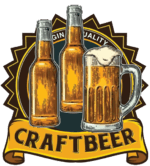
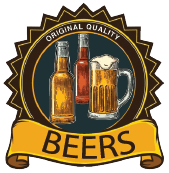
new pins caps

diff --git a/index.html b/index.html
@@ -236,12 +236,12 @@
               <button id='brewsMode' type="button" class="btn btn-secondary btn-opacity" onclick="handleRequests('showBrews')" lng-key="brewsBtn">:</button> -->
 
               <button id='beersMode' class="btn btn-secondary mode-checked btn-opacity px-2 py-0" onclick="handleRequests('showBeers')">
-                   <img src="images/beers.png" width="80" />
+                   <img src="images/introPin2.png" width="80" />
 
               </button>
 
               <button id='brewsMode' class="btn btn-secondary btn-opacity px-2 py-0" onclick="handleRequests('showBrews')">
-                   <img src="images/brews.png" width="80" />
+                   <img src="images/introPin3.png" width="80" />
 
               </button>
 

diff --git a/js/main.js b/js/main.js
@@ -927,12 +927,12 @@ function getMarkerResizeFactor() {
   var currentZoom = beerMap.getZoom();
 
 
-	if (currentZoom >= 12) return 2;
-  if (currentZoom >= 11) return 1.8;
-  if (currentZoom >= 10) return 1.6;
-	if (currentZoom >= 9) return 1.4;
-	if (currentZoom >= 8) return 1.2;
-	if (currentZoom >= 7) return 1;
+	if (currentZoom >= 12) return 2.2;
+  if (currentZoom >= 11) return 2;
+  if (currentZoom >= 10) return 1.8;
+	if (currentZoom >= 9) return 1.6;
+	if (currentZoom >= 8) return 1.4;
+	if (currentZoom >= 7) return 1.2;
 	if (currentZoom >= 6) return 1;
   return 1;
 }

diff --git a/style.css b/style.css
@@ -74,7 +74,7 @@ body {
 }
 
 .custom-pin {
-  background-image: url('js/gmaps-marker-clusterer-master/images/test9.png');
+  background-image: url('images/introPin2.png.png');
   /* background-image: url('js/gmaps-marker-clusterer-master/images/cm1.png'); */
   background-repeat: no-repeat;
   background-size: 60px;
@@ -266,7 +266,7 @@ body {
     border-top-left-radius: 5px;
     border-top-right-radius: 5px;
 
-    background-color: bg-secondary;
+    /* background-color: bg-secondary; */
 
     background-image: url('images/magnify.png');
     background-size: 30px;
